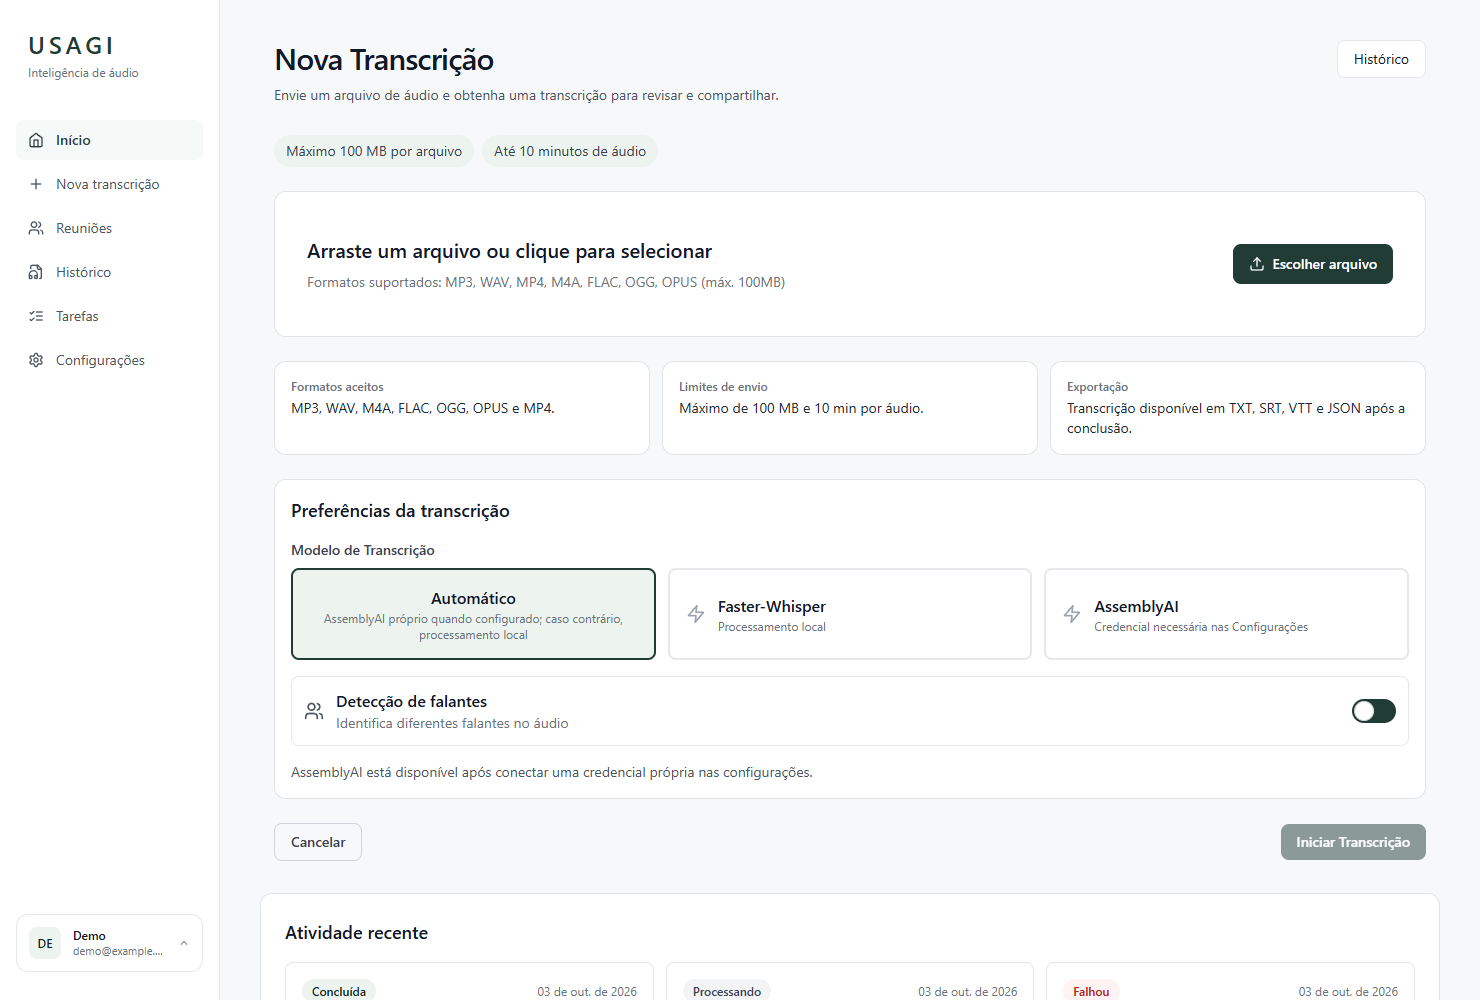
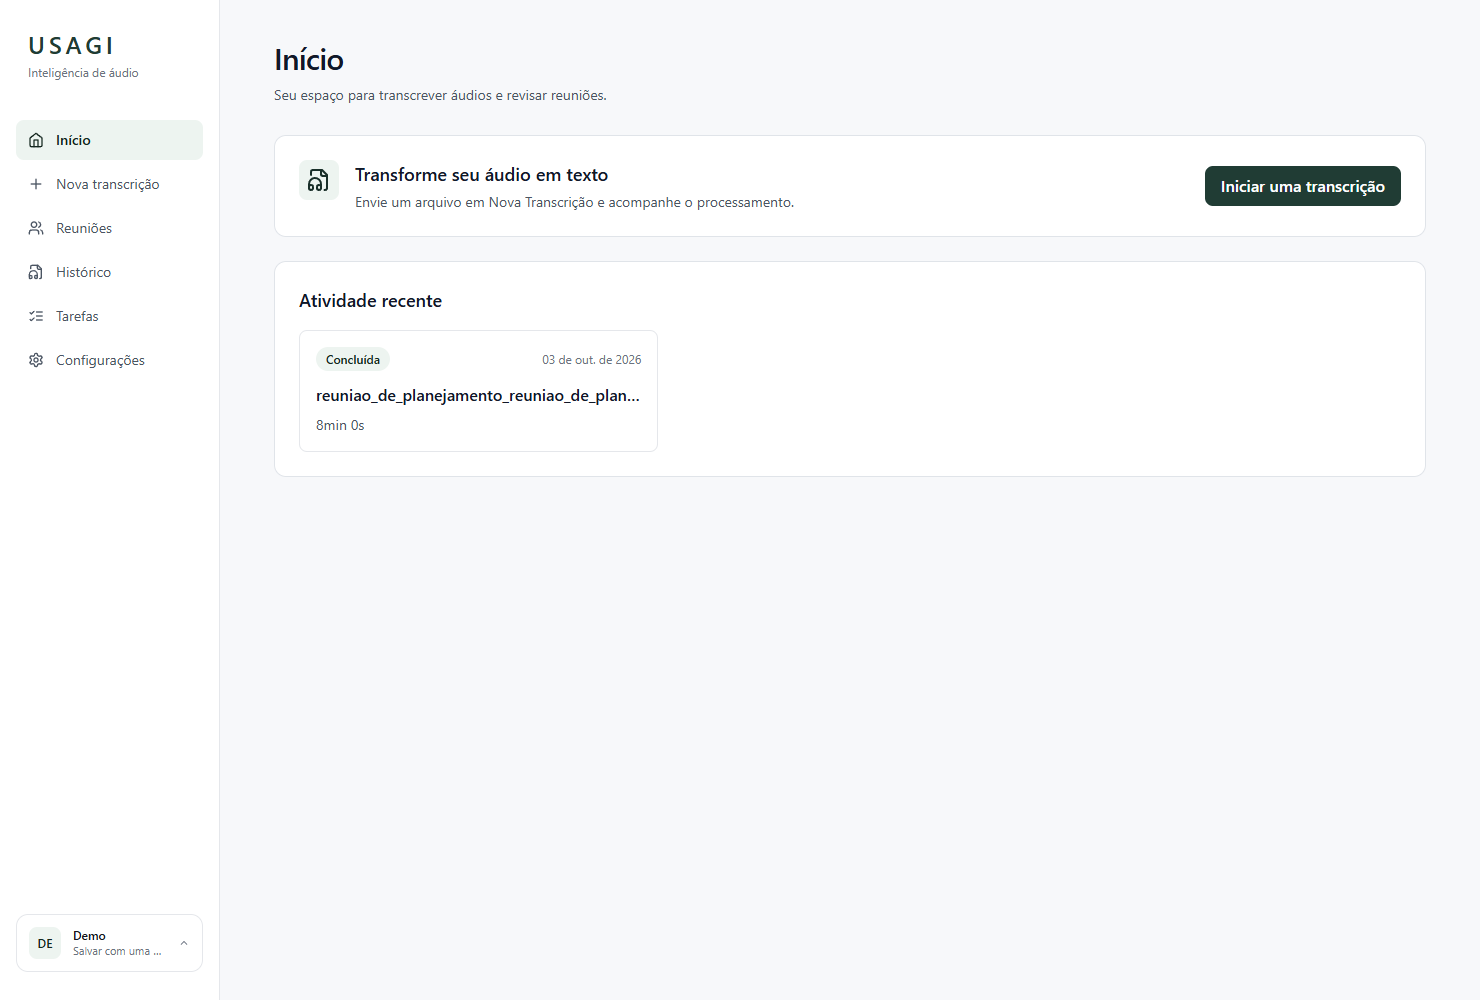
docs(ui): record reviewed home provider and form corrections

diff --git a/docs/design/p5-01/README.md b/docs/design/p5-01/README.md
@@ -91,3 +91,37 @@ O browser integrado estava indisponível; não se afirma walkthrough manual nele
 
 Não houve homologação de produção, nova homologação Gemini/AssemblyAI, promoção de
 Pyannote 4 ou alteração da matriz ML. Aprovação visual humana no PR continua necessária.
+
+## Correções após revisão da interface
+
+Início agora é uma Home/dashboard: apresentação simples e CTA para Nova Transcrição;
+contas autenticadas também veem atividade recente. O upload existe somente em
+`/new-transcription`; a rota legada `/guest` redireciona para ela. Resultados Guest
+pendentes e sua conversão explícita continuam acessíveis na Home, sem transferir
+ownership automaticamente e sem consultar a política de upload na Home vazia.
+
+AssemblyAI exibe **Indisponível** quando o backend não permite seu uso: contas usam
+`available` e `allowed` de `/settings/providers`; Guest usa `can_create_job` de
+`/guest/policy`. Seleção/envio e seletor Guest são bloqueados coerentemente.
+Esses estados não atestam disponibilidade da rede ou validade externa da chave.
+
+O formulário de tarefas usa colunas responsivas, labels empilhados e inputs
+compartilhados de altura igual; texto/data nativos antes diferiam por 2 px.
+O detalhe da transcrição reutiliza `max-w-6xl`, com quebra de nome longo, toolbar
+flexível e grid 1/2/4 colunas. A inspeção também detectou e corrigiu overflow de
+nomes longos na atividade recente da Home autenticada.
+
+Validação desta rodada: **110 testes frontend**, lint e build aprovados. Aplicação
+iniciada com Vite; Playwright/Chromium local autorizado pelo usuário depois da falha
+de conexão MCP. Screenshots capturadas e inspecionadas em 1480, 1280, 900, 640 e
+390 px; nenhum erro de console/JavaScript ou overflow horizontal nos cenários
+testados. O grid e a transcrição têm a mesma largura; responsável/prazo têm iguais
+larguras/alturas e se empilham no mobile. Backend não alterado ou re-homologado
+nesta rodada; API e estados são representados por fixtures sintéticas na inspeção.
+
+| Tela | Desktop | Mobile |
+| --- | --- | --- |
+| Home | [Conta](implemented/home.png) | [Guest](implemented/guest-home-mobile.png) / [Conta](implemented/home-mobile.png) |
+| Nova Transcrição | [AssemblyAI indisponível](implemented/upload.png) | [Guest indisponível](implemented/upload-mobile.png) |
+| Reunião | [Campos da tarefa](implemented/meeting-fields.png) | [Campos empilhados](implemented/meeting-fields-mobile.png) |
+| Transcrição | [Container e grid](implemented/transcription.png) | [Nome longo sem overflow](implemented/transcription-mobile.png) |
